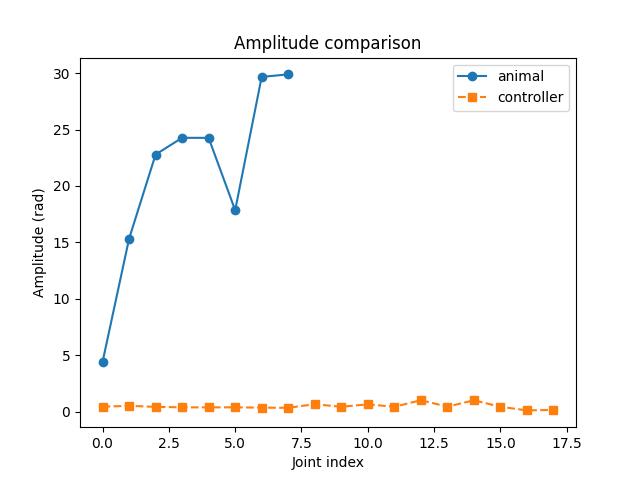
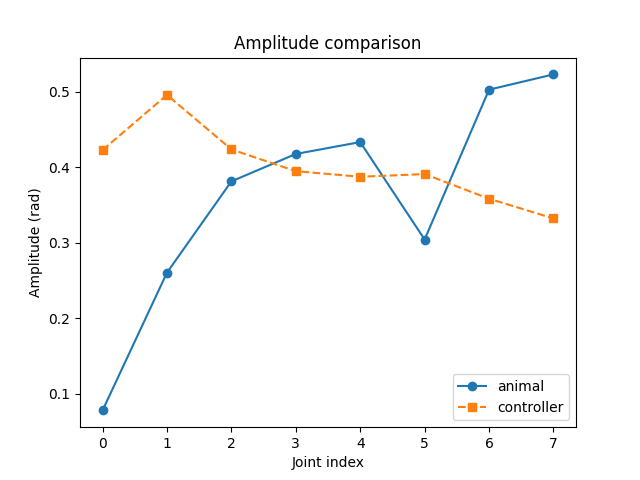
correction for 2.3 plot

diff --git a/Project1/Python/exercise2_3.py b/Project1/Python/exercise2_3.py
@@ -31,8 +31,11 @@ def get_animal_data(path):
 def get_animal_data(path):
     data = np.genfromtxt(path, delimiter=',', skip_header=1)
 
-    times = data[10:-10, 0]
-    joint_angles = data[10:-10, 1:9]
+    #times = data[10:-10, 0]
+    times = data[:,0]
+    #joint_angles = data[10:-10, 1:9]
+    joint_angles = data[:, 1:9]
+    joint_angles = np.deg2rad(joint_angles)
 
     # Smooth signals
     smooth = filter_signals(times=times, signals=joint_angles)
@@ -42,6 +45,8 @@ def get_animal_data(path):
         times=times,
         smooth_signals=smooth,
     )
+    freqs = freqs * ((1/6.5)**(0.5)) # Scale animal frequencies to match controller frequencies
+
 
     # IPL (between adjacent joints)
     inds = [[i, i+1] for i in range(7)]
@@ -56,7 +61,7 @@ def get_animal_data(path):
 
 def exercise2_3(**kwargs):
     """ex2.3 main"""
-    pylog.warning("TODO: 2.3 Analyze the provided animal data and compare the animal locomotion performance with your implemented controller.")
+    #pylog.warning("TODO: 2.3 Analyze the provided animal data and compare the animal locomotion performance with your implemented controller.")
     # pylog.set_level('critical')
 
     plot = kwargs.pop('plot', False)
@@ -108,6 +113,8 @@ freq_ctrl, _, amp_ctrl = compute_frequency_amplitude_fft(
     times=times,
     smooth_signals=smooth,
 )
+freq_ctrl = freq_ctrl[:8] # Only take the first 8 frequencies (one per joint)
+amp_ctrl = amp_ctrl[:8] # Only take the first 8 amplitudes (one per joint)
 
 inds = [[i, i+1] for i in range(7)]
 _, ipls_ctrl = compute_neural_phase_lags(
@@ -126,7 +133,8 @@ plt.title("Frequency comparison")
 plt.xlabel("Joint index")
 plt.ylabel("Frequency (Hz)")
 plt.legend()
-plt.savefig("results/freq.png")
+plt.savefig(os.path.join(PLOT_PATH, "freq.png"))
+
 
 plt.figure()
 plt.plot(amp_animal, 'o-', label='animal')
@@ -135,17 +143,17 @@ plt.title("Amplitude comparison")
 plt.xlabel("Joint index")
 plt.ylabel("Amplitude (rad)")
 plt.legend()
-plt.savefig("results/amp.png")
-
+plt.savefig(os.path.join(PLOT_PATH, "amp.png"))
 
 plt.figure()
-plt.plot(ipls_animal, 'o-', label='animal')
-plt.plot(ipls_ctrl, 's--', label='controller')
+plt.bar(0, ipls_animal, width=0.4, label='animal', align='edge')
+plt.bar(1, ipls_ctrl, width=-0.4, label='controller', align='edge')
 plt.title("IPL comparison")
 plt.xlabel("Segment")
 plt.ylabel("Phase lag (rad)")
 plt.legend()
-plt.savefig("results/ipl.png")
+plt.savefig(os.path.join(PLOT_PATH, "iplbar.png"))
+
 
 print("freq_ctrl:", freq_ctrl)
 print("amp_ctrl:", amp_ctrl)
